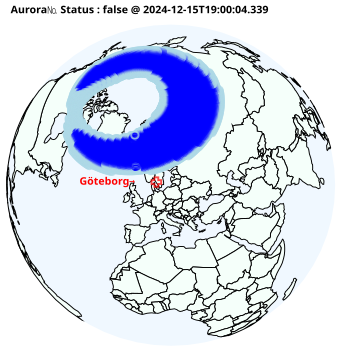
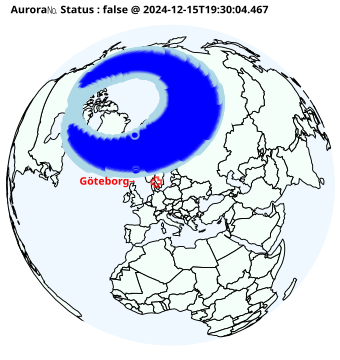
20241215193018 added aur.html

diff --git a/aur.html b/aur.html
@@ -7,6 +7,6 @@
 <body>
     <h1>Aurora Watch</h1>
     <img src="a.png" alt="Aurora Image" style="width:100%;max-width:600px;">
-    <p>Aurora Level 🌌= (0.5) was observed. (2024-12-15T19:00:04.339)</p>
+    <p>Aurora Level 🌌= (1.0) was observed. (2024-12-15T19:30:04.467)</p>
 </body>
 </html>
